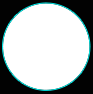
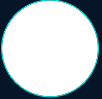
Movie finder

diff --git a/app/assets/stylesheets/movies.css.scss b/app/assets/stylesheets/movies.css.scss
@@ -164,7 +164,7 @@ div.movie-more {
 
 		text-align: center;
 		width: 800px;
-		margin: auto;
+		margin: 25% auto 0 auto;
 
 		.button-link {
 			cursor: pointer;
@@ -205,18 +205,35 @@ div.movie-more {
 
 	.related-movies, .related-facts {
 		.movie {
-			background-color: #aaa;
-			width: 380px; 
+
+			width: 354px;
+			height: 482px;
 			margin: auto;
+			padding: 0;
 		}
 
-		.yes, .no { cursor: pointer; position: absolute; top: 380px; width: 70px; height: 70px; }
+		.line-ball {
+			width: 12px; height: 12px; background: asset-url('finder-line-ball.png') no-repeat center center; position: absolute; top: calc(50% - 6px); 
+		}
+
+		#movie-1 { display: block; }
+
+		.yes, .no { cursor: pointer; position: absolute; top: calc(50% - 35px); width: 70px; height: 70px; }
 		.yes { right: 18%; background: asset-url('finder-yes.png') no-repeat right center; }
 		.no { left: 18%; background: asset-url('finder-no.png') no-repeat left center; }
 
-		.line-yes { position: absolute; right: 0px; top: 415px; height: 1px; width: 18%; background: $scope_blue; }
-		.line-no { position: absolute; left: 0px; top: 415px; height: 1px; width: 18%; background: $scope_blue; }
+		.line-yes { position: absolute; right: 0px; top: 50%; height: 1px; width: 18%; background: $scope_blue; }
+		.line-no { position: absolute; left: 0px; top: 50%; height: 1px; width: 18%; background: $scope_blue; }
 
+		.not-seen { display: block; cursor: pointer; margin-top: 30px; text-transform: uppercase; color: $scope_blue; font-size: 20px; font-weight: bold; }
+
+	}
+
+	.next a {
+		position: absolute; top: calc(50% - 30px); right: 30px;
+		width: 62px; height: 85px;
+		display: block;
+		background: asset-url('finder-next.png') no-repeat center center;
 	}
 }
 

diff --git a/app/assets/stylesheets/static.css.scss b/app/assets/stylesheets/static.css.scss
@@ -3,7 +3,7 @@
 // You can use Sass (SCSS) here: http://sass-lang.com/
 
 body, html {
-	background: #020202;
+	background: #071528;
 	color: white;
 	width: 100%;
 	height: 100%;

diff --git a/app/controllers/movies_controller.rb b/app/controllers/movies_controller.rb
@@ -24,6 +24,7 @@ class MoviesController < ApplicationController
 			render 'movies/finder/mood', layout: 'tunnel'
 		when '2' then
 			@percent = 30
+			@related_movies = RelatedMovie.all.limit 5
 			render 'movies/finder/related_movies', layout: 'tunnel'
 		when '3' then
 			@percent = 70
